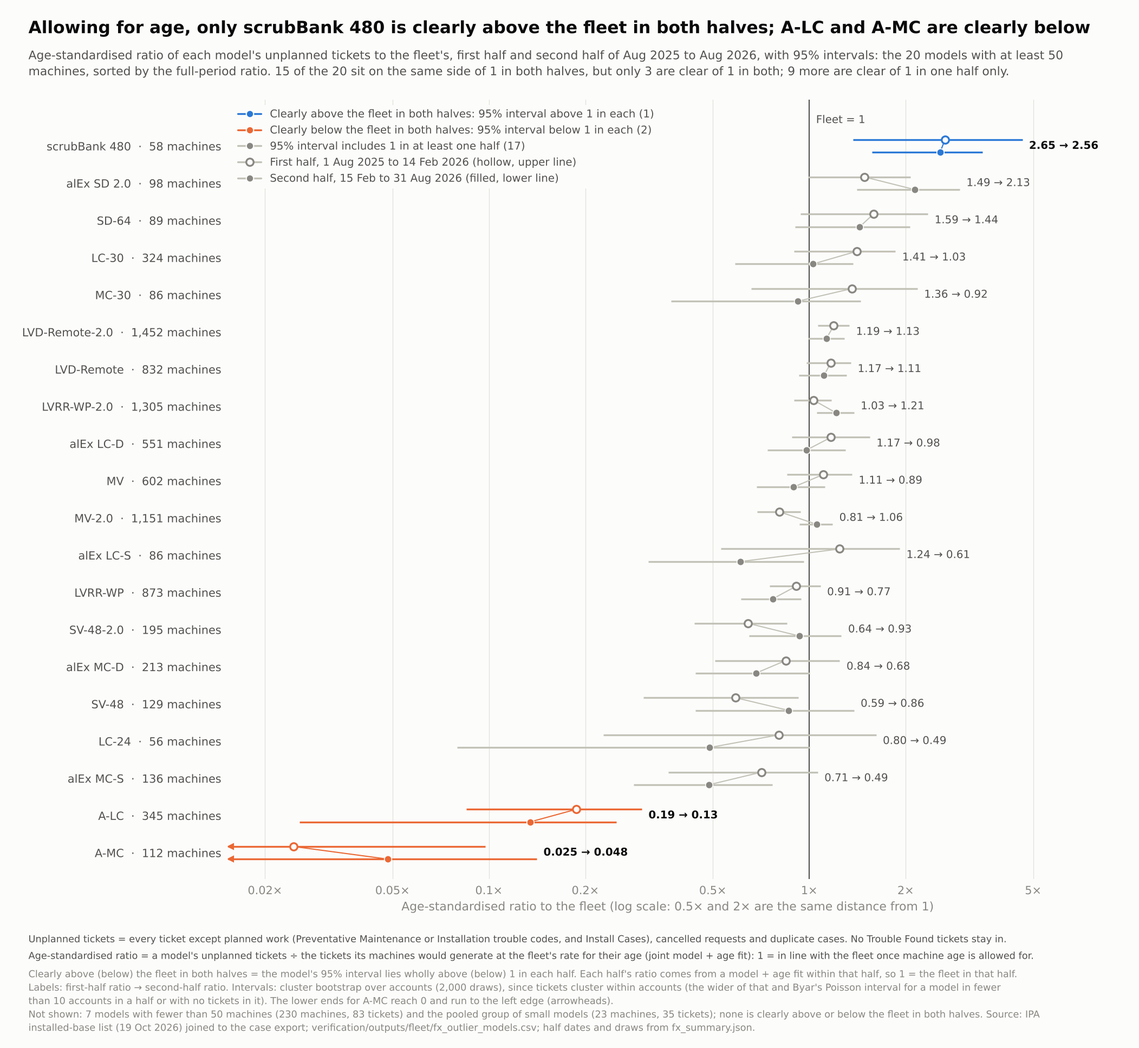
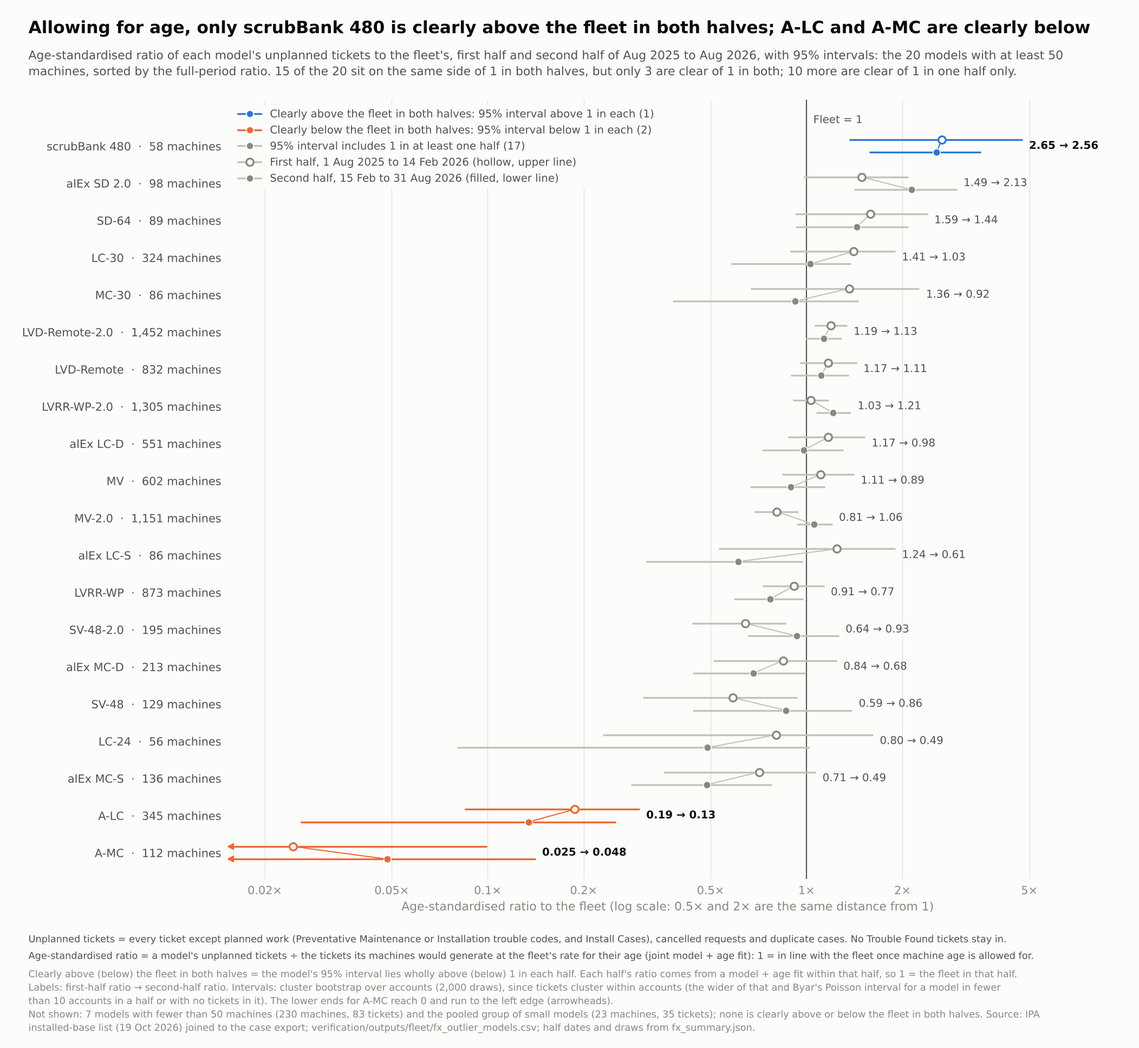
Fleet exposure: re-fit age factors in the bootstrap; true minimum-exposure bound; doc fixes
From the clean-room re-check and the number trace:
- age-standardised intervals re-fit the joint model + age fit in every
  resample (LVRR-WP becomes not different from the fleet age for age);
- the unlisted-serial bound uses each serial's first-to-last-ticket
  exposure, the true minimum (rate_with_unlisted_max);
- tied top categories are counted and labelled (fx_12);
- the go-live sensitivity is labelled exposure-only;
- docs: No Coverage 4.3, STR range 1.8-5.2, negative-binomial check now
  flags none (2 on 14 Oct), plan rates, scrubex-5, bases for Customers
  171 and 029, and other wording fixes.

Claude-Session: https://claude.ai/code/session_01TK1dMyKUfDxdMWXiP8n6X5

diff --git a/verification/fleet_exposure.py b/verification/fleet_exposure.py
@@ -21,7 +21,8 @@ Definitions
      Each ticket is attributed to the machine's account ON THE LIST (customer), so numerator and denominator use
      the same account. The list holds only machines active on 2026-10-19: tickets on serials that are not listed
      (removed or replaced machines) drop out with their unknown exposure; fx_unlisted_by_model.csv and the
-     rate_with_unlisted_bound column bound the effect.
+     rate_with_unlisted_max column (unlisted tickets put back with their least possible exposure, first to last
+     ticket) bound the effect.
   F2 Installed machine-months. Exposure runs from max(2025-08-01, install date) to 2026-09-01 (exclusive), in months
      of 365.25/12 days. If a machine has a ticket in the period before its install date (4 machines), exposure starts
      on that ticket's date: the list's install date is the install at the current account. Machines installed after
@@ -231,6 +232,21 @@ def ipf(df, count, factors, months='months', iters=500, tol=1e-9):
         if worst < tol:
             break
     return e.to_numpy(), mult, base
+
+
+def age_factors_batch(t, mo, iters=300):
+    """Age multipliers of the model + age main-effects fit for a batch of (group x age) ticket and month tables
+    (shape B x G x A), by the same proportional fitting as ipf(); scale is arbitrary."""
+    e = mo * (t.sum((1, 2)) / mo.sum((1, 2)))[:, None, None]
+    cm = np.ones((t.shape[0], t.shape[2]))
+    with np.errstate(invalid='ignore', divide='ignore'):
+        for _ in range(iters):
+            r = np.where(e.sum(2) > 0, t.sum(2) / e.sum(2), 0.0)
+            e = e * r[:, :, None]
+            c = np.where(e.sum(1) > 0, t.sum(1) / e.sum(1), 0.0)
+            e = e * c[:, None, :]
+            cm = cm * c
+    return cm
 
 
 def ipf_expected(df, count, factors, months='months'):
@@ -484,9 +500,32 @@ def age_standardised(m, by, W, clusters, tickets='tickets', months='months', age
     e_age = d[months] * base * d[age].map(mult[age]).astype(float).fillna(0.0)
     d = d.assign(_e=e_age * d[tickets].sum() / e_age.sum())
     levels, (T, E) = _cluster_sums(d, by, [tickets, '_e'], clusters)
-    with np.errstate(invalid='ignore', divide='ignore'):
-        rb = (W @ T.T) / (W @ E.T)
-    lo, hi = pct_ci(rb)
+    # Bootstrap: re-fit the joint model + age fit in every resample (on the resampled group x age tables), so the
+    # interval carries the uncertainty of the age factors and of the fleet level as well as of the group's own count.
+    ci = d.customer.map({a: i for i, a in enumerate(clusters)}).to_numpy()
+    groups = sorted(d.rate_group.unique())
+    gi = d.rate_group.map({g: i for i, g in enumerate(groups)}).to_numpy()
+    ai = d[age].map({a: i for i, a in enumerate(AGE_LABELS)}).astype(int).to_numpy()
+    li = d[by].map({v: i for i, v in enumerate(levels)}).astype(int).to_numpy()
+    C, G, A, L = len(clusters), len(groups), len(AGE_LABELS), len(levels)
+    tg, mg, ml = np.zeros((C, G, A)), np.zeros((C, G, A)), np.zeros((C, L, A))
+    np.add.at(tg, (ci, gi, ai), d[tickets].to_numpy(float))
+    np.add.at(mg, (ci, gi, ai), d[months].to_numpy(float))
+    np.add.at(ml, (ci, li, ai), d[months].to_numpy(float))
+
+    def ratios(w):
+        t_ = (w @ tg.reshape(C, -1)).reshape(-1, G, A)
+        m_ = (w @ mg.reshape(C, -1)).reshape(-1, G, A)
+        l_ = (w @ ml.reshape(C, -1)).reshape(-1, L, A)
+        o_ = w @ T.T
+        cm = age_factors_batch(t_, m_)
+        with np.errstate(invalid='ignore', divide='ignore'):
+            return o_ * (m_.sum(1) * cm).sum(1)[:, None] / (t_.sum((1, 2))[:, None] * (l_ * cm[:, None, :]).sum(2))
+
+    point = ratios(np.ones((1, C)))[0]
+    check(f'age-standardised ({by}, {tickets}): batch re-fit at unit weights = point estimate', 0.0,
+          float(np.nanmax(np.abs(point - T.sum(1) / E.sum(1)))), tol=1e-6)
+    lo, hi = pct_ci(ratios(W))
     g = pd.DataFrame({by: levels, 'tickets': T.sum(1), 'expected_age_only': E.sum(1)})
     g['clusters'] = d.groupby(by).customer.nunique().reindex(levels).to_numpy()
     g['age_std_ratio'] = g.tickets / g.expected_age_only
@@ -575,10 +614,13 @@ def main():
     check('every exposed machine has an age band', 0, int((m.months > 0).sum() - m.age_band.notna().sum()))
 
     # Survivorship bound: tickets on unlisted serials by model and half, with the least exposure they could have
-    # had (period start to the day after their last ticket).
+    # had (from the day of their first ticket in the period to the day after their last), so the rate with them put
+    # back is an upper bound.
     u = unl.assign(half=np.where(unl.ts < SPLIT, 'h1', 'h2'))
-    last = u.groupby('serial').agg(model=('model', 'first'), last=('ts', 'max'), tickets=('case_id', 'size'))
-    last['min_months'] = ((last['last'].dt.normalize() + pd.Timedelta(days=1) - PERIOD_START).dt.days / MONTH_DAYS)
+    last = u.groupby('serial').agg(model=('model', 'first'), first=('ts', 'min'), last=('ts', 'max'),
+                                   tickets=('case_id', 'size'))
+    last['min_months'] = ((last['last'].dt.normalize() + pd.Timedelta(days=1) - last['first'].dt.normalize())
+                          .dt.days / MONTH_DAYS)
     ub = last.groupby('model').agg(unlisted_serials=('tickets', 'size'), unlisted_tickets=('tickets', 'sum'),
                                    unlisted_min_months=('min_months', 'sum'))
     ub = ub.join(u.pivot_table(index='model', columns='half', values='case_id', aggfunc='size', fill_value=0)
@@ -616,7 +658,7 @@ def main():
     models['own_rate'] = models.months >= MIN_TYPE_MONTHS
     ubm = ub.reindex(models.model).fillna(0)
     models['unlisted_tickets'] = ubm.unlisted_tickets.to_numpy()
-    models['rate_with_unlisted_bound'] = 100 * (models.tickets + ubm.unlisted_tickets.to_numpy()) / \
+    models['rate_with_unlisted_max'] = 100 * (models.tickets + ubm.unlisted_tickets.to_numpy()) / \
         (models.months + ubm.unlisted_min_months.to_numpy())
     models = models.sort_values(['tickets', 'model'], ascending=[False, True])
     save(models, 'model_rates')
@@ -741,7 +783,8 @@ def main():
     # Sensitivities: go-live exposure, and the population with the third-party machines put back.
     ml = m.assign(months=m.months_live)
     cl, _, _ = customer_table(ml, 'tickets', ipf_expected(ml, 'tickets', ['rate_group', 'age_band']))
-    FACTS['go_live_sensitivity'] = {'fleet_rate_per_100': 100 * m.tickets.sum() / m.months_live.sum(),
+    FACTS['go_live_sensitivity'] = {'scope': 'go-live date for exposure only; age bands from the install date',
+                                    'fleet_rate_per_100': 100 * m.tickets.sum() / m.months_live.sum(),
                                     'months': float(m.months_live.sum()), 'flagged_998': int((cl.z_d > Z998).sum()),
                                     'flagged_overlap_with_main': int(((cl.z_d > Z998) & c.flagged).sum()),
                                     'poisson_flagged': int(poisson_flags(cl.O, cl.E).sum()),
@@ -948,7 +991,8 @@ def main():
                     'top2_share_of_excess': float(top2.excess.sum() / exc) if exc > 0 else np.nan,
                     'machines_above_expected_share': float((mm[mm.months > 0].tickets > mm[mm.months > 0].E).mean()),
                     'flagged_machines': int(mm.flagged.sum()),
-                    'top_category': cc.index[0] if len(cc) else None,
+                    'top_category': cc.index[0] if len(cc) else None,   # ties: alphabetically first
+                    'top_category_ties': int((cc == cc.iloc[0]).sum()) if len(cc) else 0,
                     'top_category_share': float(cc.iloc[0] / cc.sum()) if len(cc) else np.nan,
                     'top_model': c.loc[cust, 'top_model'],
                     'months_share_service_contract': c.loc[cust].get('months_share_service_contract', np.nan)})

diff --git a/viz/fleet_exposure/fx_12_outlier_drivers.py b/viz/fleet_exposure/fx_12_outlier_drivers.py
@@ -256,7 +256,9 @@ def draw(S, c, small_n, path, names=None):
     # Two text columns at the right of the plot area (axes x, data y): pattern, and top category with its share.
     tr = blended_transform_factory(ax.transAxes, ax.transData)
     pat_text = [p[0].upper() + p[1:] for p in c.pattern]
-    cat_text = [f'{t} ({s:.0%})' for t, s in zip(c.top_category, c.top_category_share)]
+    # A top category tied with others is the alphabetically first of them (fleet_exposure.py); say so.
+    cat_text = [f'{t} ({s:.0%}{f", tied with {k - 1} more" if k > 1 else ""})'
+                for t, s, k in zip(c.top_category, c.top_category_share, c.top_category_ties)]
     style.check('fx_12 drawn top-category shares (whole %) = count / tickets', 0,
                 float(np.abs(np.round(100 * c.top_category_share.to_numpy()) -
                              np.round(100 * c.cat_count.to_numpy() / c.tickets.to_numpy())).max()))

diff --git a/docs/06_fleet_exposure.md b/docs/06_fleet_exposure.md
@@ -1,7 +1,7 @@
 # Ticket rates adjusted for fleet exposure
 
-*21 October 2026. Script: `verification/fleet_exposure.py`. It runs locally in about 30 s from the case export and
-IPA's installed-base list, with no database, and has 23 self-checks. Every number below is in
+*21 October 2026. Script: `verification/fleet_exposure.py`. It runs locally in about 40 s from the case export and
+IPA's installed-base list, with no database, and has 27 self-checks. Every number below is in
 `verification/outputs/fleet/fx_summary.json` or an `fx_*.csv`. Figures: `viz/figures/fx_*.png`, drawn by one plain
 matplotlib script per chart in `viz/fleet_exposure/`. They replace high_ticket charts 9 and 10, which are
 retired.*
@@ -42,7 +42,7 @@ changes, all applied here:
 3. **Age matters as much as model.**
    - Machines in their first four years generate about 8 tickets per 100 machine-months.
    - Machines over 10 years old generate 2.5.
-   - Service status matters too: Under Warranty 10.5, No Coverage 4.4, Not Serviceable 1.5. But that is a
+   - Service status matters too: Under Warranty 10.5, No Coverage 4.3, Not Serviceable 1.5. But that is a
      snapshot from October 2026.
 4. **Customer differences are real and persistent.** We compare each customer with what its own machines would
    generate at fleet rates for their model and age.
@@ -67,7 +67,7 @@ changes, all applied here:
 
 ## 1. The data
 **IPA's active equipment list (19 October 2026).**
-- **Contents:** 9,294 machines at 1,066 accounts; 34 models in 5 product families.
+- **Contents:** 9,294 machines at 1,066 accounts; 34 models in 4 product families (plus one machine labelled "scrubEx 1.0").
 - **Fields used:** serial, account, model, product family, service status, service plan, ownership, country,
   install date and go-live date.
 - **Fields dropped when loaded** (`common.load_equipment`), so they never reach an analysis table:
@@ -93,23 +93,25 @@ during the period are missing.
   August 2026 (`fx_unlisted_by_month.csv`). Those tickets drop out with their unknown exposure.
 - **Older models lose most:**
   - 10–33% of the tickets of several older models are on unlisted serials;
-  - the 2.0 models lose 1.5% or less (`fx_unlisted_by_model.csv`).
-- **Bound:** adding the unlisted tickets back with the least exposure they could have had (from the period start
-  to their last ticket) moves some older models' rates up, never the 2.0 models' by more than 0.1. For example:
-  - alEx LC-D: 8.0 → at most 9.2;
-  - LVD-Remote: 5.7 → at most 6.3.
+  - the scrubEx 2.0 models lose 1.5% or less, and alEx SD 2.0 2% (`fx_unlisted_by_model.csv`).
+- **Bound:** adding the unlisted tickets back with the least exposure they could have had (from their first to
+  their last ticket in the period) gives an upper bound for each model's rate. It moves some older models' rates up
+  noticeably, the scrubEx 2.0 models' by 0.1 at most and alEx SD 2.0's by 0.25. For example:
+  - alEx LC-D: 8.0 → at most 9.4;
+  - LVD-Remote: 5.7 → at most 6.4.
 - **Effect on comparisons:** older models are understated relative to newer ones. The bound is in the
-  `rate_with_unlisted_bound` column of `fx_model_rates.csv`.
+  `rate_with_unlisted_max` column of `fx_model_rates.csv`.
 
 **Third-party service plan left out.** All 239 machines on the Vogeltronix service plan sit at one account.
-- **Evidence:** they had 3 unplanned tickets in 2,998 machine-months, 0.1 per 100 against 6.0 for every other plan
+- **Evidence:** they had 3 unplanned tickets in 2,998 machine-months, 0.1 per 100 against 6.2 for all other plans together
   (Ricoh 6.2, Bell and Howell 6.0).
 - **Interpretation:** their service work almost certainly does not reach this case export, so they are not at risk
   of an IPA ticket. They are left out of every rate and comparison.
 - **Sensitivity:** with them included, the fleet rate is 6.0 and the customer flags change little (70 instead of
   63).
-- **Why it matters:** left in, this one account would have supplied half of the customer-dispersion estimate,
-  lowered several models' rates and shown up as a "consistently low" customer.
+- **Why it matters:** left in, this one account would have supplied about 45% of the gamma-Poisson
+  customer-dispersion estimate (0.52 with it, 0.30 without), lowered several models' rates and shown up as a
+  "consistently low" customer.
 
 **Population.** 9,055 machines at 1,065 accounts. 109 of them were installed after the period and count 0 months.
 
@@ -118,7 +120,8 @@ during the period are missing.
   1 August 2025 if earlier) to 31 August 2026.
   - Four machines had a ticket before their install date (7 tickets). The list's date is the install at the current
     account, so their exposure starts at that ticket.
-  - Go-live dates instead of install dates give 6.17 instead of 6.16.
+  - Go-live dates instead of install dates (for exposure; age bands stay on install dates) give 6.17 instead of
+    6.16.
 - **Unplanned tickets:** Zac's definition. Every ticket except planned work, cancelled requests and duplicates. No
   Trouble Found stays in.
 - **Expected tickets:** what a group's machines would generate at fleet rates for their model and age.
@@ -146,6 +149,8 @@ during the period are missing.
   - For a group held by fewer than 10 accounts, or with no tickets, the bootstrap interval is degenerate. The
     reported interval is then the wider of the bootstrap and the exact Poisson (Byar) interval.
   - A group held by one account is "not estimable" against the fleet.
+  - Age-standardised ratios re-fit the joint model + age fit in every resample, so their intervals include the
+    uncertainty of the age factors.
 
 **Three fleet rates.**
 
@@ -158,7 +163,7 @@ during the period are missing.
 The installed rate is the lowest because its denominator counts every installed month. That includes:
 - machines with no telemetry;
 - months when a machine transacts nothing;
-- the 5,598 machines that never had a ticket.
+- the 5,598 machines with no unplanned ticket.
 
 The telemetry-span figure here (6.98) counts only tickets inside each device's active span. docs/05's 7.5 also
 counted 227 tickets outside the span and tickets on devices with no exposure.
@@ -169,16 +174,16 @@ extremes. "Age-standardised" allows for each model's age mix.
 
 | Model | Machines | Tickets | Rate per 100 | 95% interval | Age-standardised ratio |
 |---|---|---|---|---|---|
-| LVD-Remote-2.0 | 1,452 | 1,381 | 8.0 | 7.3–8.9 | 1.16 (1.05–1.29) |
-| LVRR-WP-2.0 | 1,305 | 1,193 | 7.7 | 6.9–8.6 | 1.12 (1.00–1.25) |
-| MV-2.0 | 1,151 | 883 | 6.4 | 5.7–7.2 | 0.93 (0.83–1.04) |
-| LVD-Remote | 832 | 615 | 5.7 | 4.9–6.4 | 1.14 (0.99–1.29) |
-| LVRR-WP | 873 | 495 | 4.4 | 3.7–5.1 | 0.84 (0.71–0.98) |
+| LVD-Remote-2.0 | 1,452 | 1,381 | 8.0 | 7.3–8.9 | 1.16 (1.05–1.28) |
+| LVRR-WP-2.0 | 1,305 | 1,193 | 7.7 | 6.9–8.6 | 1.12 (1.01–1.25) |
+| MV-2.0 | 1,151 | 883 | 6.4 | 5.7–7.2 | 0.93 (0.84–1.04) |
+| LVD-Remote | 832 | 615 | 5.7 | 4.9–6.4 | 1.14 (0.97–1.36) |
+| LVRR-WP | 873 | 495 | 4.4 | 3.7–5.1 | 0.84 (0.69–1.01) |
 | alEx LC-D | 551 | 466 | 8.0 | 6.3–9.9 | 1.05 (0.83–1.32) |
-| MV | 602 | 380 | 4.9 | 3.9–5.9 | 1.01 (0.81–1.21) |
-| alEx SD 2.0 | 98 | 150 | 12.9 | 9.4–16.9 | 1.82 (1.33–2.36) |
-| scrubBank 480 | 58 | 122 | 16.4 | 11.3–22.5 | 2.58 (1.75–3.70) |
-| A-LC | 345 | 39 | 0.9 | 0.4–1.4 | 0.16 (0.07–0.25) |
+| MV | 602 | 380 | 4.9 | 3.9–5.9 | 1.01 (0.80–1.24) |
+| alEx SD 2.0 | 98 | 150 | 12.9 | 9.4–16.9 | 1.82 (1.32–2.37) |
+| scrubBank 480 | 58 | 122 | 16.4 | 11.3–22.5 | 2.58 (1.75–3.79) |
+| A-LC | 345 | 39 | 0.9 | 0.4–1.4 | 0.16 (0.07–0.26) |
 | A-MC | 112 | 3 | 0.2 | 0.0–0.6 | 0.04 (0.00–0.11) |
 
 **What the model table shows:**
@@ -208,7 +213,7 @@ extremes. "Age-standardised" allows for each model's age mix.
 |---|---|
 | Under Warranty | 10.5 |
 | Service Contract | 7.5 |
-| No Coverage | 4.4 |
+| No Coverage | 4.3 |
 | Not Serviceable | 1.5 |
 
 - **Snapshot caveat:** the status is the one on the October 2026 list, applied to the whole period. Warranty
@@ -225,7 +230,7 @@ extremes. "Age-standardised" allows for each model's age mix.
 - **Above the telemetry fleet's 7.0:**
   - scrubex2.0-2 7.9 and scrubex2.0-3 7.9, the types of LVD-Remote-2.0 and LVRR-WP-2.0;
   - sbsx-51 20.1.
-- **Below it:** scrubex-3 4.3 and scrubex-4 4.8.
+- **Below it:** scrubex-5 4.0, scrubex-3 4.3 and scrubex-4 4.8.
 
 ## 4. Customers
 **The busiest customers against their fleets** (`fx_customer_rates.csv`; chart `fx_06`).
@@ -275,7 +280,7 @@ extremes. "Age-standardised" allows for each model's age mix.
 **Customers** (`fx_outlier_customers.csv`, `fx_outlier_drivers.csv`; chart `fx_12`).
 - 32 customers are flagged in at least 10 of the 12 variants. 18 of them are also above expected in both halves:
   the **consistent outliers**.
-- Together they have 737 unplanned tickets against 318 expected, with STRs from 1.9 to 5.2 (median 3.0).
+- Together they have 737 unplanned tickets against 318 expected, with STRs from 1.8 to 5.2 (median 3.0).
 - **Fleet size and spread:**
   - 9 have fewer than 10 machines. A few machines can drive those, so a field check should look at the machines
     first.
@@ -283,7 +288,8 @@ extremes. "Age-standardised" allows for each model's age mix.
     it.
   - Those 6 are Customers 056, 171, 363, 479, 529 and 641. A spread-out excess points to the site (usage,
     environment, how readily staff call), not to a bad unit.
-- **Top categories:** Deposit Door at 7 customers, Computer Board at 4, Curtain at 4.
+- **Top categories:** Deposit Door at 7 customers, Computer Board at 4 (at one of them tied with two other
+  categories), Curtain at 4.
 - **Funnel position:** only one is outside the overdispersion-adjusted 99.8% funnel limit, and 7 are inside its
   95% limit. Each is "persistently above the fleet's rate for the same machines", a screening list for IPA's
   field check, not a verdict.
@@ -295,7 +301,8 @@ extremes. "Age-standardised" allows for each model's age mix.
   - 128 listed machines are flagged on installed exposure (953 tickets);
   - 58 are flagged in at least 10 of 12 variants;
   - 36 are consistent outliers, at 31 customers (14 of them at consistent-outlier customers).
-  - As in docs/05, a negative-binomial check, which allows for the spread between machines, flags none. These are
+  - A negative-binomial check, which allows for the spread between machines, now flags none (docs/05's
+    telemetry-based check left 2). These are
     machines high within a heterogeneous fleet, not a separate population.
 - **Persistence:** machines with 3 or more tickets in the first half had 2.6 times their expected tickets in the
   second half. The two nulls give:
@@ -312,8 +319,8 @@ extremes. "Age-standardised" allows for each model's age mix.
 **Models** (`fx_outlier_models.csv`; chart `fx_09`).
 - On age-standardised ratios, scrubBank 480 is above the fleet in both halves (2.65 and 2.56).
 - A-LC and A-MC are below in both.
-- LVD-Remote-2.0 is above on the full period (1.16, 1.05–1.29) and in the first half. In the second half it is
-  1.13 with a lower bound of 0.99. alEx SD 2.0 is the mirror image.
+- LVD-Remote-2.0 is above on the full period (1.16, 1.05–1.28) and in the first half. In the second half it is
+  1.13 with a lower bound just under 1 (0.995). alEx SD 2.0 is the mirror image.
 
 ## 6. Limits
 - **Machines missing from the list.** Removed machines are missing, so older models are understated (section 1).

diff --git a/docs/executive_summary.md b/docs/executive_summary.md
@@ -33,12 +33,12 @@ date). With it we can, for the first time:
    - One check fails in the committed run record. The cause was a sort-order bug in our comparison script, not in
      the notebook; once fixed, all 15 rows match.
 2. **Service workload is concentrated by product and not by customer, and it mostly follows the installed base.**
-   - Three model families (LVD-Remote-2.0, LVRR-WP-2.0, MV-2.0) account for 48% of tickets. That mostly reflects how
+   - Three models (LVD-Remote-2.0, LVRR-WP-2.0, MV-2.0) account for 48% of tickets. That mostly reflects how
      many are installed: on the installed base they hold 42% of machine-months and 51% of unplanned tickets.
    - The ten busiest facilities account for only 11% of tickets. The two largest differ once their fleets are known:
-     - Customer 171 (123 tickets) has about twice the unplanned tickets its 68 machines would generate at fleet
-       rates;
-     - Customer 029 (116 tickets, 107 machines) is in line with its fleet.
+     - Customer 171 (123 tickets in all) has 113 unplanned tickets on its 68 listed machines against 59 expected,
+       about twice its fleet's rate;
+     - Customer 029 (116 tickets in all) has 114 against 102 expected on 107 machines, in line with its fleet.
    - Deposit Door is the most common recorded issue: 1,124 tickets, 16% of unplanned service.
 3. **New: adjusted for exposure and machine age, the main models are close to the fleet rate.**
    - **Fleet rate:** 6.2 unplanned tickets per 100 installed machine-months, about 0.74 per machine per year.
@@ -73,7 +73,7 @@ date). With it we can, for the first time:
 7. **High-ticket machines hold up on installed exposure, as a continuum.**
    - Of the 113 machines flagged on 14 October, 106 are on the list and 93 stay flagged; 30 are consistent outliers.
    - On the whole list, 128 machines are flagged and 36 are consistent outliers.
-   - A model that allows for the spread between machines still flags none.
+   - A model that allows for the spread between machines now flags none (2 on 14 October).
    - Machines flagged on the first half alone fell from 12.6 to 2.9 times their expected tickets in the second
      half: regression to the mean, but a real excess remains.
 8. **About one in four tickets is followed by another on the same machine within 30 days (23.6%).**
@@ -109,7 +109,7 @@ date). With it we can, for the first time:
 |---|---|---|
 | 1 | **Machines removed or replaced during August 2025 to August 2026, with removal dates, and parent accounts.** | The list holds active machines only. 433 unplanned tickets sit on 226 serials that are not on it, mostly older models, so their rates are understated. Parent accounts give health-system rates. |
 | 2 | **A field check of the 18 consistent-outlier customers and 36 consistent-outlier machines** (list available on request). | Only IPA can tell whether the signal reflects heavy use, site practice, reporting habits or problem units. |
-| 3 | **Service channels.** Does Vogeltronix-plan service reach Salesforce? Is A-series service handled elsewhere? What does "Not Serviceable" mean? Do you have contract and warranty dates? | The 239 Vogeltronix machines had 3 tickets in a year, so we left them out. A-series machines have almost none. Coverage on the list is a snapshot. |
+| 3 | **Service channels.** Does Vogeltronix-plan service reach Salesforce? Is A-series service handled elsewhere? What does "Not Serviceable" mean? Do you have contract and warranty dates? | The 239 Vogeltronix machines had 3 unplanned tickets in 13 months, so we left them out. A-series machines have almost none. Coverage on the list is a snapshot. |
 | 4 | IPA's code definitions (being sent), and which codes each machine family or firmware version can emit. | They replace our provisional buckets for the association analysis and the fault-code comparison by type. |
 | 5 | **How "Monitoring – Daily/Poll" tickets are created, and whether they count as customer demand.** | There are 138 of them, involved in 11% of repeat contacts. If telemetry alerts create them, matching them back to telemetry is circular. |
 | 6 | **Whether technicians look at clearView error history when they assign Category and Sub Category; where the intake Trouble Code is kept; a Field History Tracking export.** | If technicians use clearView, part of the ticket-to-telemetry association is built in. The export holds only the final Trouble Code. |
@@ -133,7 +133,7 @@ date). With it we can, for the first time:
 
 *Definitions.*
 - **Unplanned tickets** exclude preventive maintenance and installations, cancelled requests and duplicate cases.
-- **Installed machine-month** (findings 3 and 6): one month of a listed machine being installed, from its install
+- **Installed machine-month** (findings 2, 3, 6 and 7): one month of a listed machine being installed, from its install
   date (or 1 August 2025) to 31 August 2026. The 239 machines on a third-party service plan are left out.
 - **Expected tickets:** what the machines would generate at fleet rates for their model and age.
 - **Flagged:** both of these hold:

diff --git a/docs/05_high_ticket_machines.md b/docs/05_high_ticket_machines.md
@@ -27,7 +27,7 @@ script.
 >   - 30 are also *consistent outliers*: flagged under at least 10 of 12 method variants and above expected in
 >     both halves of the period.
 >   - On the list as a whole, 128 machines are flagged and 36 are consistent outliers.
->   - A negative-binomial check still flags none (`fx_summary.json` machines, docs05_overlap).
+>   - A negative-binomial check now flags none (the 14 October telemetry-based check left 2) (`fx_summary.json` machines, docs05_overlap).
 > - **The 22 machines with under 12 months of exposure:**
 >   - 19 are on the list. 7 were installed during the period, so their short exposure was real; 12 were installed
 >     earlier and had quiet months.
